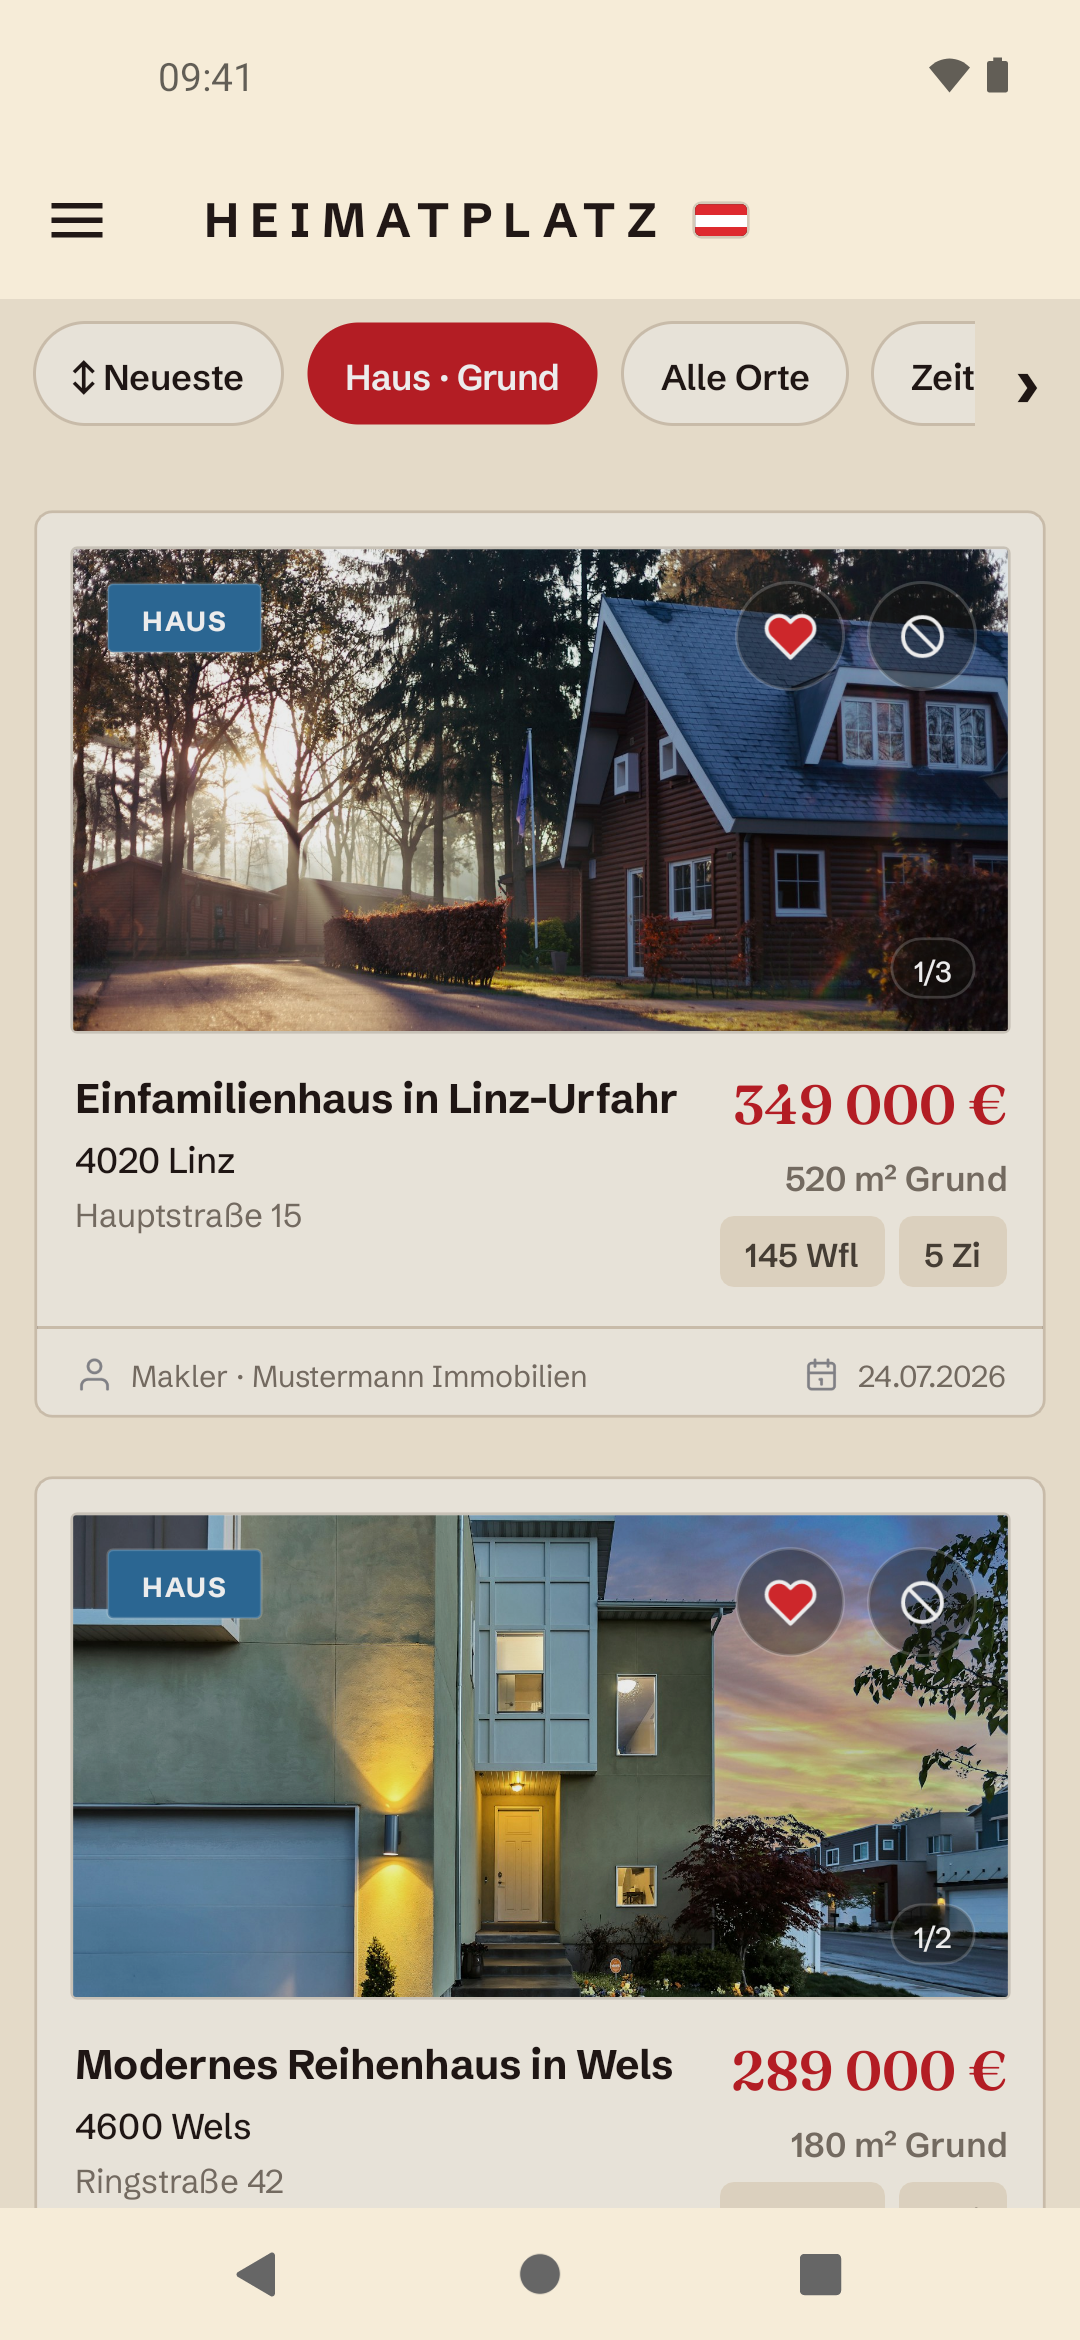
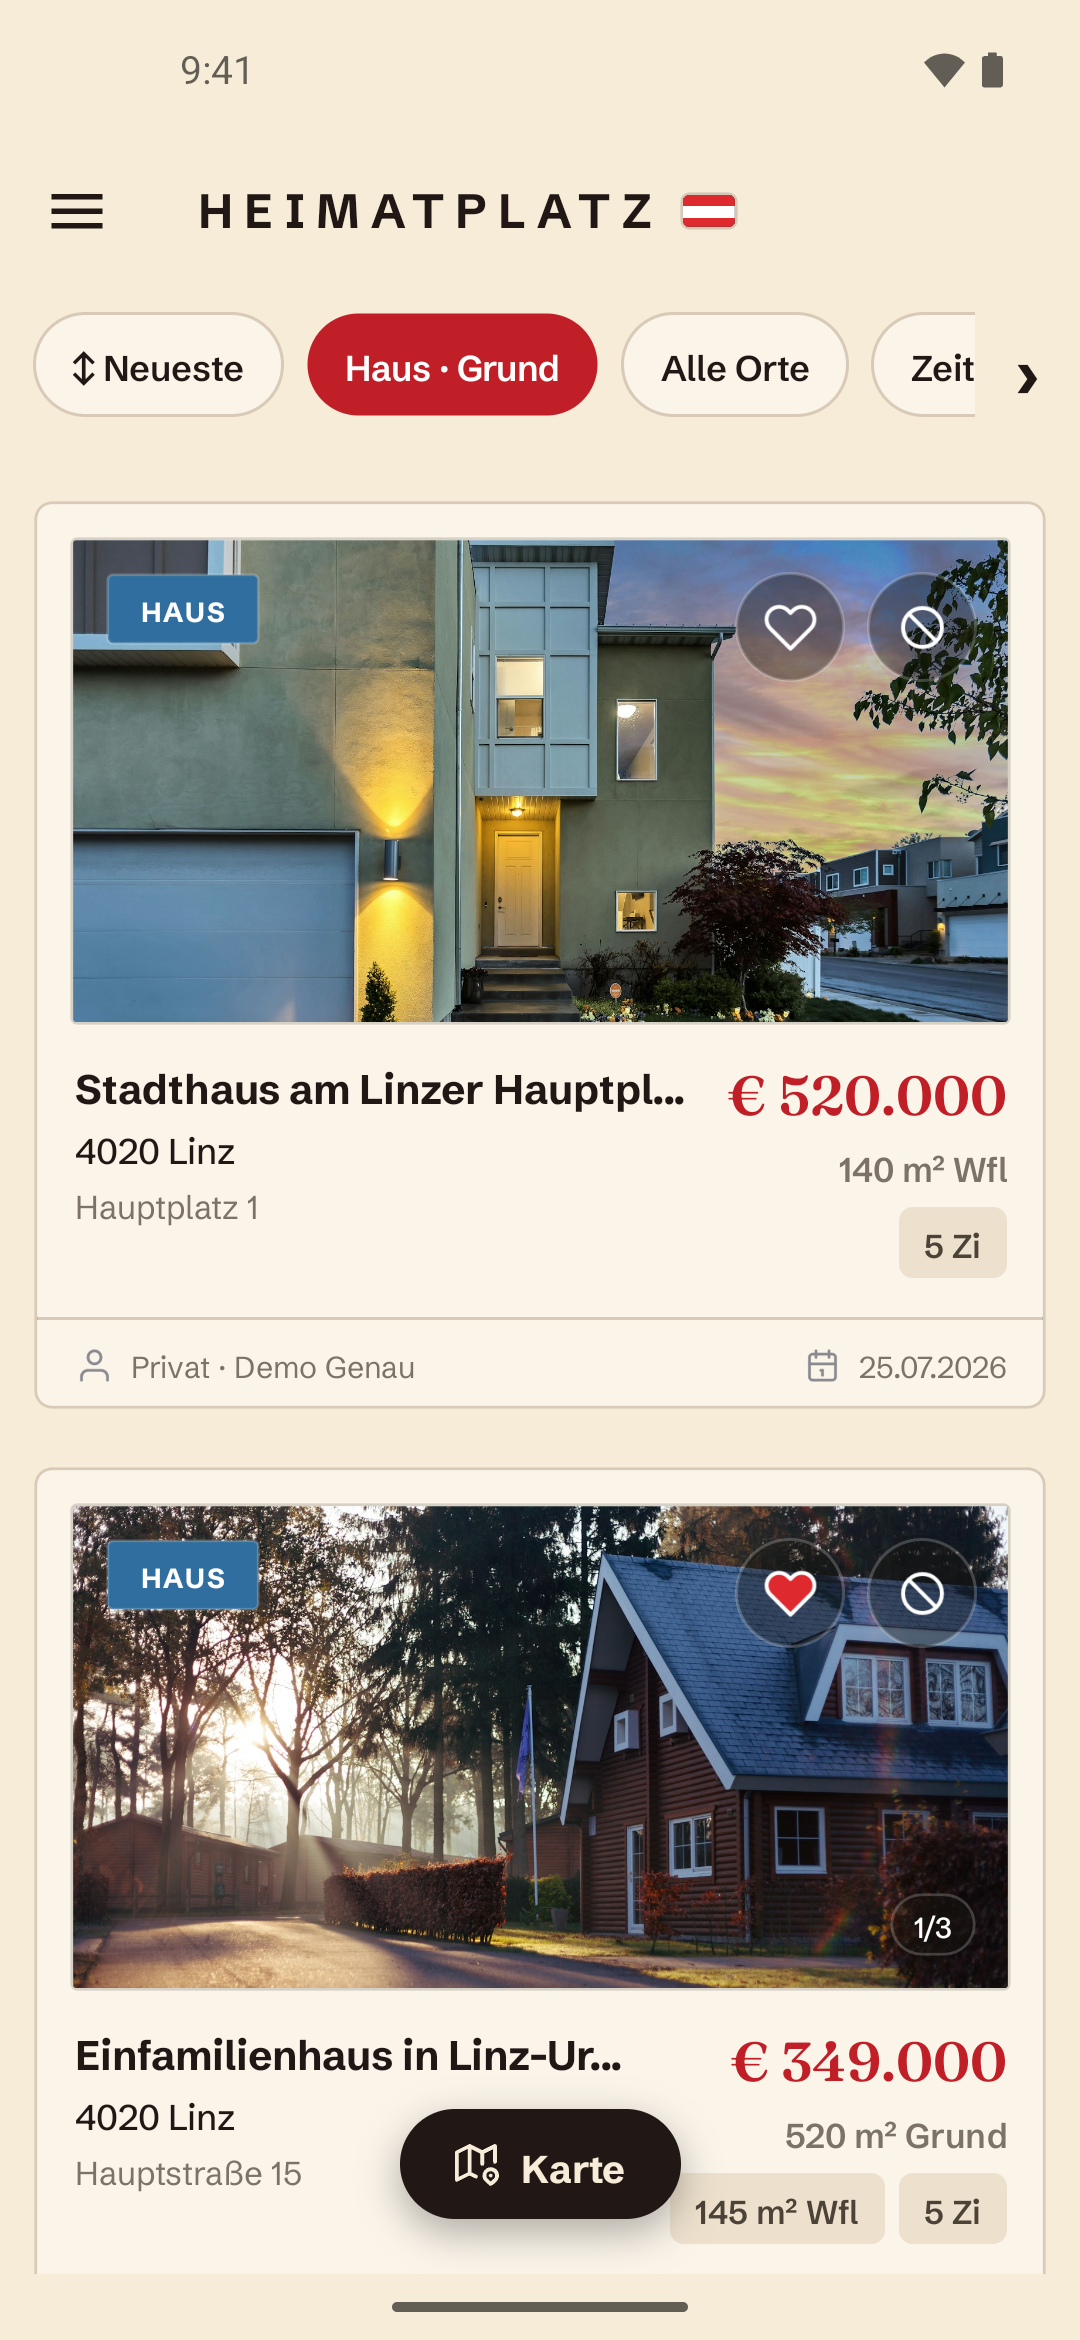
feat(screenshots): Kartenshot für Play Store und App Store
Die Vollbild-Kartenansicht (Shell-Route PropertyMap) wird jetzt als eigener
Store-Screenshot aufgenommen - Android und iOS, direkt hinter der Startseite,
restliche Shots durchnummeriert. Damit 8 Phone-Screenshots = Play-Maximum.

Dabei drei Blocker im Android-Task behoben:

- AVD auf pixel_5_-_api_35 gehoben: das API-30-Image bringt WebView 83
  (Chrome 83, 2020) mit, die MapLibre-Faltkarte /karte-embed bleibt dort
  leer. Das alte AVD existierte ohnehin nicht mehr.
- Demo-Statusbar genau einmal und erst nach der Installation setzen, WLAN
  und Mobilfunk in einem einzigen network-Befehl. Zu früh gesetzt bleibt
  ein zweites WLAN-Icon stehen (Mobilfunk-Slot), mehrfach gesetzt werden
  die Icons dauerhaft weiß auf Papierfarbe, und ein nachgeschobenes
  "mobile hide" löscht das WLAN-Icon gleich mit.
- Emulator kalt booten (-no-snapshot): der Quickboot-Snapshot konservierte
  den SystemUI-Zustand des Vorlaufs.

Alle 8 Android-Shots neu aufgenommen und geprüft (Statusleiste, Karte mit
Bezirks-Clustern). Die iOS-Seite ist reine Konfiguration und ungetestet.

Claude-Session: https://claude.ai/code/session_01EJeu4FfGfm7H9NJbx6ytbL

diff --git a/cake/Tasks/AndroidScreenshotsTask.cs b/cake/Tasks/AndroidScreenshotsTask.cs
@@ -17,6 +17,9 @@ namespace Build.Tasks;
 /// die Sysprops im Emulator in Env-Vars (ScreenshotSysProps) fuer den geteilten
 /// ScreenshotMode. Standard-API ist die gehostete Test-API (test-api.heimatplatz.at)
 /// mit geseedeten Daten - kein lokaler API-Start noetig.
+/// AVD-Anforderung: aktuelles System-Image (API 35+). Der Karten-Shot rendert die
+/// Web-Faltkarte (/karte-embed, MapLibre) im WebView - das API-30-Image bringt
+/// WebView 83 (Chrome 83, 2020) mit und zeigt dort nur eine leere Seite.
 /// Ausgabe: cake/fastlane/metadata/android/&lt;locale&gt;/images/&lt;imageType&gt;/&lt;shot&gt;.png
 /// (direkt im fastlane-kompatiblen Metadata-Layout, damit Upload und Git-Diff zusammenfallen).
 /// Konfiguration: Sektion "Android:Screenshots" in appsettings.json.
@@ -64,7 +67,7 @@ public sealed class AndroidScreenshotsTask : FrostingTask<BuildContext>
             .ToList();
         if (devices.Count == 0)
         {
-            devices = [new Device("pixel_5_-_api_30", "phoneScreenshots")];
+            devices = [new Device("pixel_5_-_api_35", "phoneScreenshots")];
         }
 
         var defaultDelay = int.TryParse(section["LaunchDelaySeconds"], out var d) ? d : 12;
@@ -182,19 +185,23 @@ public sealed class AndroidScreenshotsTask : FrostingTask<BuildContext>
             Run(context, adb, Adb("shell", "wm", "dismiss-keyguard"), throwOnError: false);
             Run(context, adb, Adb("shell", "input", "keyevent", "KEYCODE_WAKEUP"), throwOnError: false);
 
-            // Deterministische Status-Bar via SystemUI-Demo-Mode: 09:41, WLAN voll,
-            // Akku 100%, keine Notifications, kein Mobilfunk
             Run(context, adb, Adb("shell", "settings", "put", "global", "sysui_demo_allowed", "1"));
-            Demo(context, adb, serial, "enter");
-            Demo(context, adb, serial, "clock", "-e", "hhmm", "0941");
-            Demo(context, adb, serial, "network", "-e", "wifi", "show", "-e", "level", "4", "-e", "fully", "true");
-            Demo(context, adb, serial, "network", "-e", "mobile", "hide");
-            Demo(context, adb, serial, "battery", "-e", "level", "100", "-e", "plugged", "false");
-            Demo(context, adb, serial, "notifications", "-e", "visible", "false");
 
             // Frische Installation fuer reproduzierbaren App-Zustand
             Run(context, adb, Adb("uninstall", context.ApplicationId), throwOnError: false);
             Run(context, adb, Adb("install", "-r", apkPath));
+
+            // Deterministische Status-Bar via SystemUI-Demo-Mode: 09:41, WLAN voll,
+            // Akku 100%, keine Notifications, kein Mobilfunk.
+            // Timing ist heikel und beide Richtungen sind schon schiefgegangen:
+            // - zu frueh (direkt nach dem Boot): der Mobilfunk-Slot registriert sich erst
+            //   danach und "mobile hide" verpufft - es bleibt ein zweites WLAN-Icon stehen
+            //   (Carrier-Merged-Darstellung des Emulator-Modems).
+            // - mehrfach: jede weitere Demo-Sendung setzt die Icon-Toenung dauerhaft auf
+            //   hell, die Icons waeren weiss auf Papierfarbe und damit unsichtbar.
+            // Deshalb GENAU EINMAL und erst nach der Installation - dann steht die
+            // Telefonie, und die danach startende App faerbt die Icons wieder dunkel.
+            ApplyStatusBarDemo(context, adb, serial);
 
             // Screenshot-Steuerung: debug.*-Sysprops sind fuer die adb-Shell ohne Root
             // setzbar; ScreenshotSysProps in der App uebersetzt sie in Env-Vars
@@ -275,8 +282,8 @@ public sealed class AndroidScreenshotsTask : FrostingTask<BuildContext>
 
     /// <summary>
     /// Findet einen bereits laufenden Emulator mit dem konfigurierten AVD-Namen oder
-    /// bootet ihn frisch (Snapshot-Load erlaubt - Determinismus kommt aus Demo-Statusbar
-    /// und frischer App-Installation, nicht aus dem Kaltstart).
+    /// bootet ihn kalt (-no-snapshot): der Quickboot-Snapshot wuerde SystemUI-Zustand
+    /// aus dem Vorlauf mitschleppen.
     /// </summary>
     private static (string Serial, bool StartedByUs, Process? EmulatorProcess) EnsureEmulator(
         BuildContext context, ScreenshotConfig config, Device device, string adb, string emulatorExe)
@@ -302,6 +309,10 @@ public sealed class AndroidScreenshotsTask : FrostingTask<BuildContext>
         processInfo.ArgumentList.Add(device.Avd);
         processInfo.ArgumentList.Add("-no-boot-anim");
         processInfo.ArgumentList.Add("-no-audio");
+        // Immer kalt booten und nichts speichern: der Quickboot-Snapshot konserviert den
+        // SystemUI-Zustand des Vorlaufs (u.a. die helle Icon-Toenung der Demo-Statusbar),
+        // die Screenshots waeren damit vom letzten Lauf abhaengig statt deterministisch.
+        processInfo.ArgumentList.Add("-no-snapshot");
 
         var process = Process.Start(processInfo)
             ?? throw new InvalidOperationException("Failed to start emulator process");
@@ -387,6 +398,25 @@ public sealed class AndroidScreenshotsTask : FrostingTask<BuildContext>
         // adb-shell-Argumente erneut (Leerzeichen/!-Zeichen); leerer Wert loescht die
         // Property effektiv (App ignoriert leere Werte)
         Run(context, adb, ["-s", serial, "shell", "setprop", name, $"'{value.Replace("'", "'\\''")}'"]);
+    }
+
+    /// <summary>
+    /// Setzt die deterministische Demo-Statusbar (09:41, WLAN voll, Akku 100%, keine
+    /// Notifications, kein Mobilfunk). Darf pro Lauf nur EINMAL aufgerufen werden -
+    /// siehe Kommentar an der Aufrufstelle.
+    /// </summary>
+    private static void ApplyStatusBarDemo(BuildContext context, string adb, string serial)
+    {
+        Demo(context, adb, serial, "enter");
+        Demo(context, adb, serial, "clock", "-e", "hhmm", "0941");
+        // WLAN und Mobilfunk MUESSEN in einem einzigen network-Befehl stehen: unter API 35
+        // ersetzt ein zweiter network-Broadcast den kompletten Demo-Netzwerkzustand, ein
+        // nachgeschobenes "mobile hide" loescht damit auch das WLAN-Icon wieder.
+        Demo(context, adb, serial, "network",
+            "-e", "wifi", "show", "-e", "level", "4", "-e", "fully", "true",
+            "-e", "mobile", "hide");
+        Demo(context, adb, serial, "battery", "-e", "level", "100", "-e", "plugged", "false");
+        Demo(context, adb, serial, "notifications", "-e", "visible", "false");
     }
 
     private static void Demo(BuildContext context, string adb, string serial, string command, params string[] extraArgs)

diff --git a/docs/android-release.md b/docs/android-release.md
@@ -18,7 +18,8 @@ Der komplette Release läuft mit einem Befehl:
    `android-v*`-Tag). Danach harte Limit-Validierung in C# (30/80/4000/500 Zeichen) – bei Verstoß bricht der Lauf ab.
 3. **AndroidScreenshots** – deterministische Screenshots im Emulator:
    - Release-APK (debug-signiert, `android-x64`), frische Installation
-   - AVD aus `Android:Screenshots:Devices` (läuft er schon, wird er wiederverwendet)
+   - AVD aus `Android:Screenshots:Devices` (läuft er schon, wird er wiederverwendet), sonst
+     Kaltstart mit `-no-snapshot`
    - Demo-Statusbar: 09:41, WLAN voll, Akku 100 %, keine Notifications
    - App gegen die gehostete Test-API (`https://test-api.heimatplatz.at`, geseedete Daten)
    - Auto-Login mit dem Test-User + Navigation pro Route, Aufnahme erst wenn zwei
@@ -39,8 +40,23 @@ Der komplette Release läuft mit einem Befehl:
 |-----|----|
 | Play-Service-Account-Key | `cake/secrets/play-store-key.json` |
 | Keystore + Passwörter | `cake/secrets/heimatplatz.keystore`, Passwörter in `cake/appsettings.Local.json` |
-| Android-Emulator (AVD) | `Android:Screenshots:Devices` in `cake/appsettings.json` (Default `pixel_5_-_api_30`) |
+| Android-Emulator (AVD) | `Android:Screenshots:Devices` in `cake/appsettings.json` (Default `pixel_5_-_api_35`) |
 | Claude CLI | `claude` auf dem PATH (nutzt das Default-Modell) |
+
+### AVD für die Screenshots
+
+Neu anlegen (Pixel-5-Profil, 1080x2340 – passt zu den bestehenden Store-Screenshots):
+
+```powershell
+& "$env:ANDROID_HOME\cmdline-tools\latest\bin\avdmanager.bat" create avd `
+    -n "pixel_5_-_api_35" -k "system-images;android-35;google_apis_playstore;x86_64" -d "pixel_5"
+```
+
+**Mindestens API 35 verwenden.** Der Karten-Shot rendert die Web-Faltkarte (`/karte-embed`, MapLibre)
+im WebView; das API-30-Image bringt WebView 83 (Chrome 83, 2020) mit und zeigt dort nur eine leere
+Seite. Die Statusleiste ist unter API 35 empfindlich – die Regeln stehen als Kommentar im Task:
+Demo-Mode genau einmal und erst nach der Installation setzen, WLAN und Mobilfunk in einem einzigen
+`network`-Befehl, Emulator immer kalt booten.
 
 ## Konfiguration (`cake/appsettings.json`)
 
